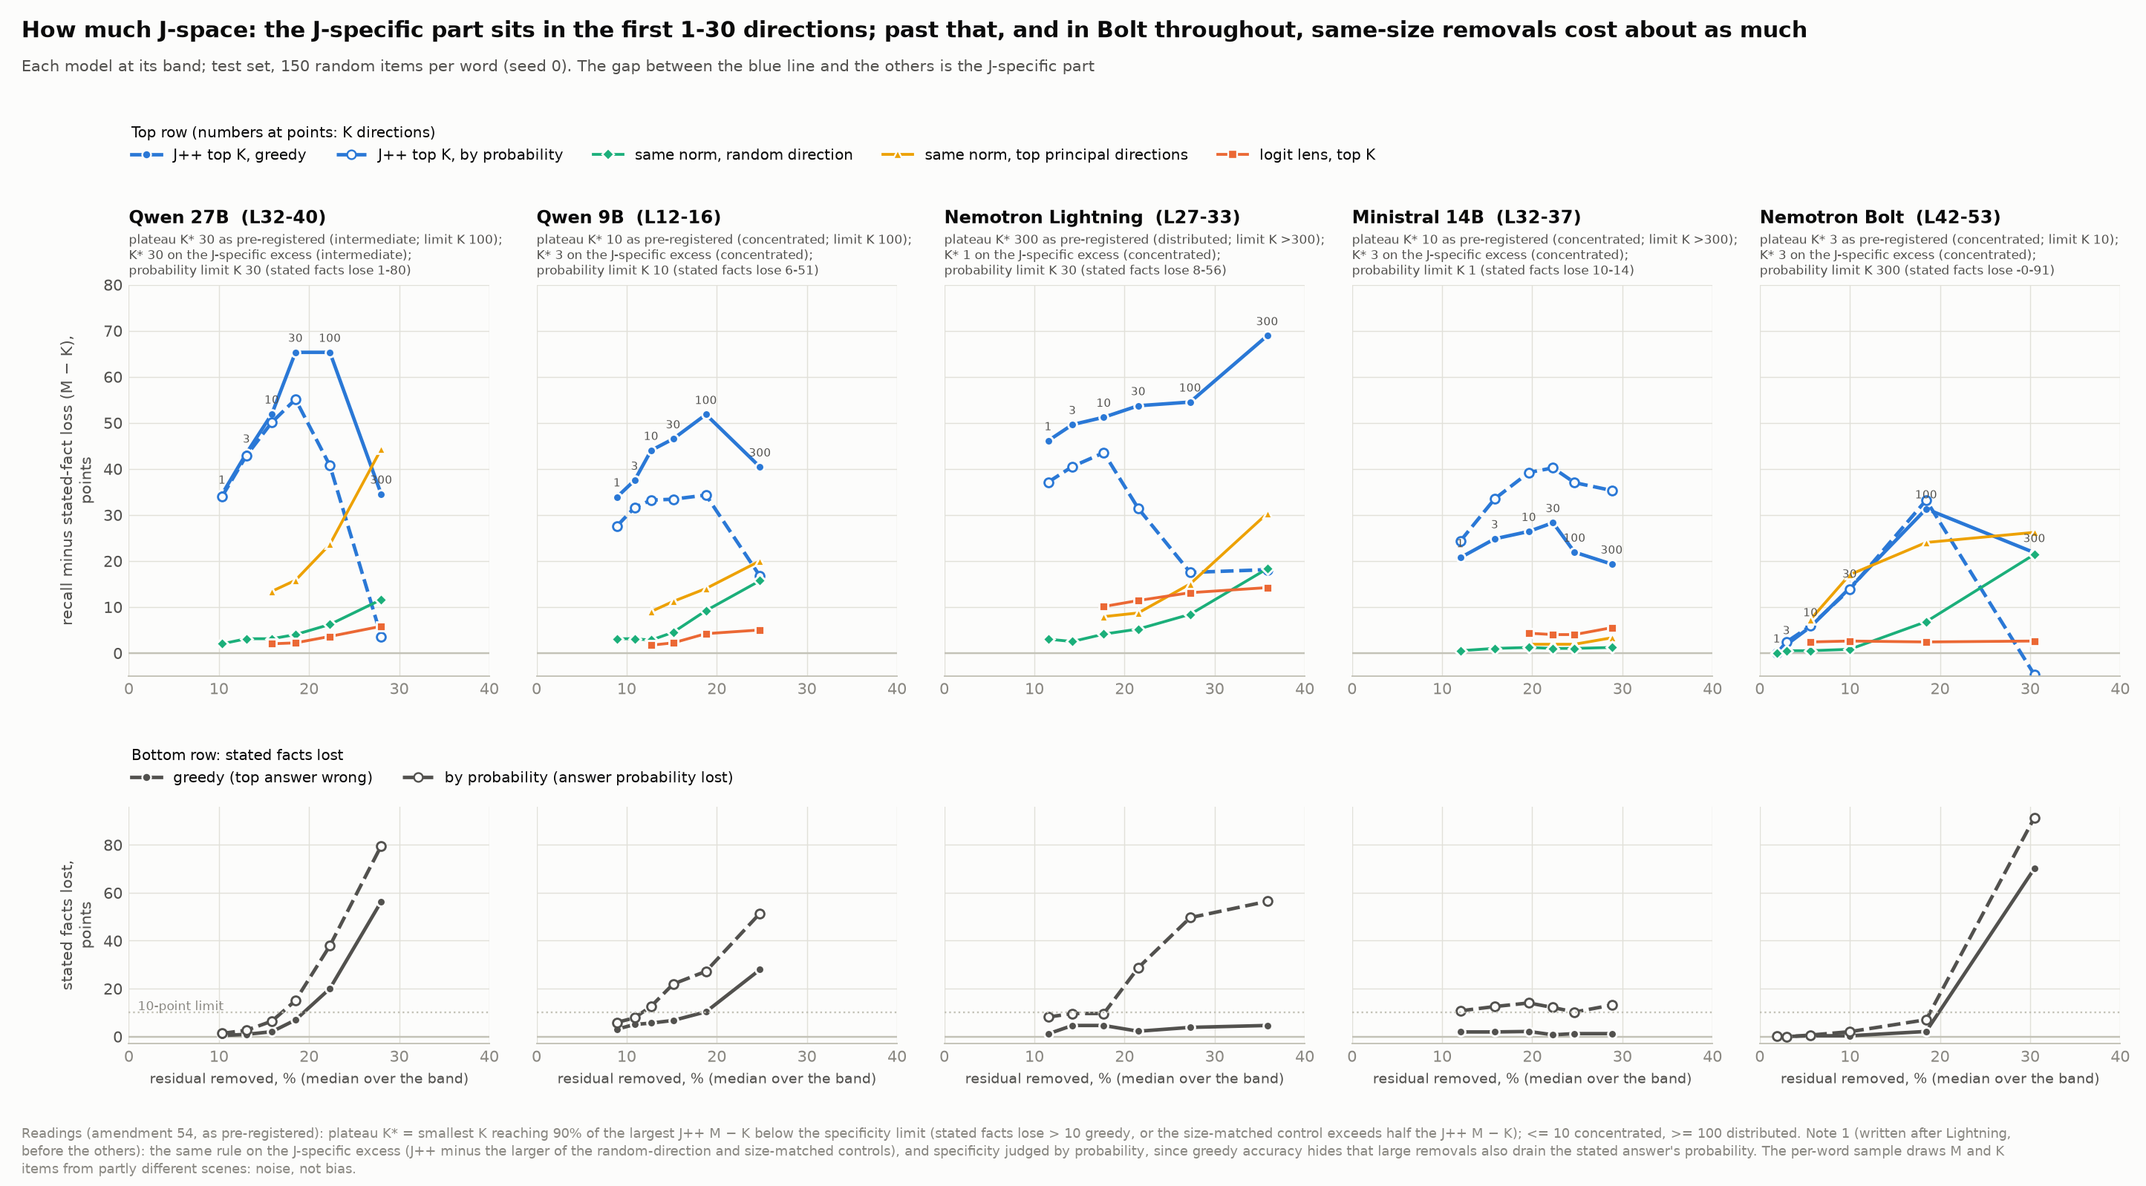
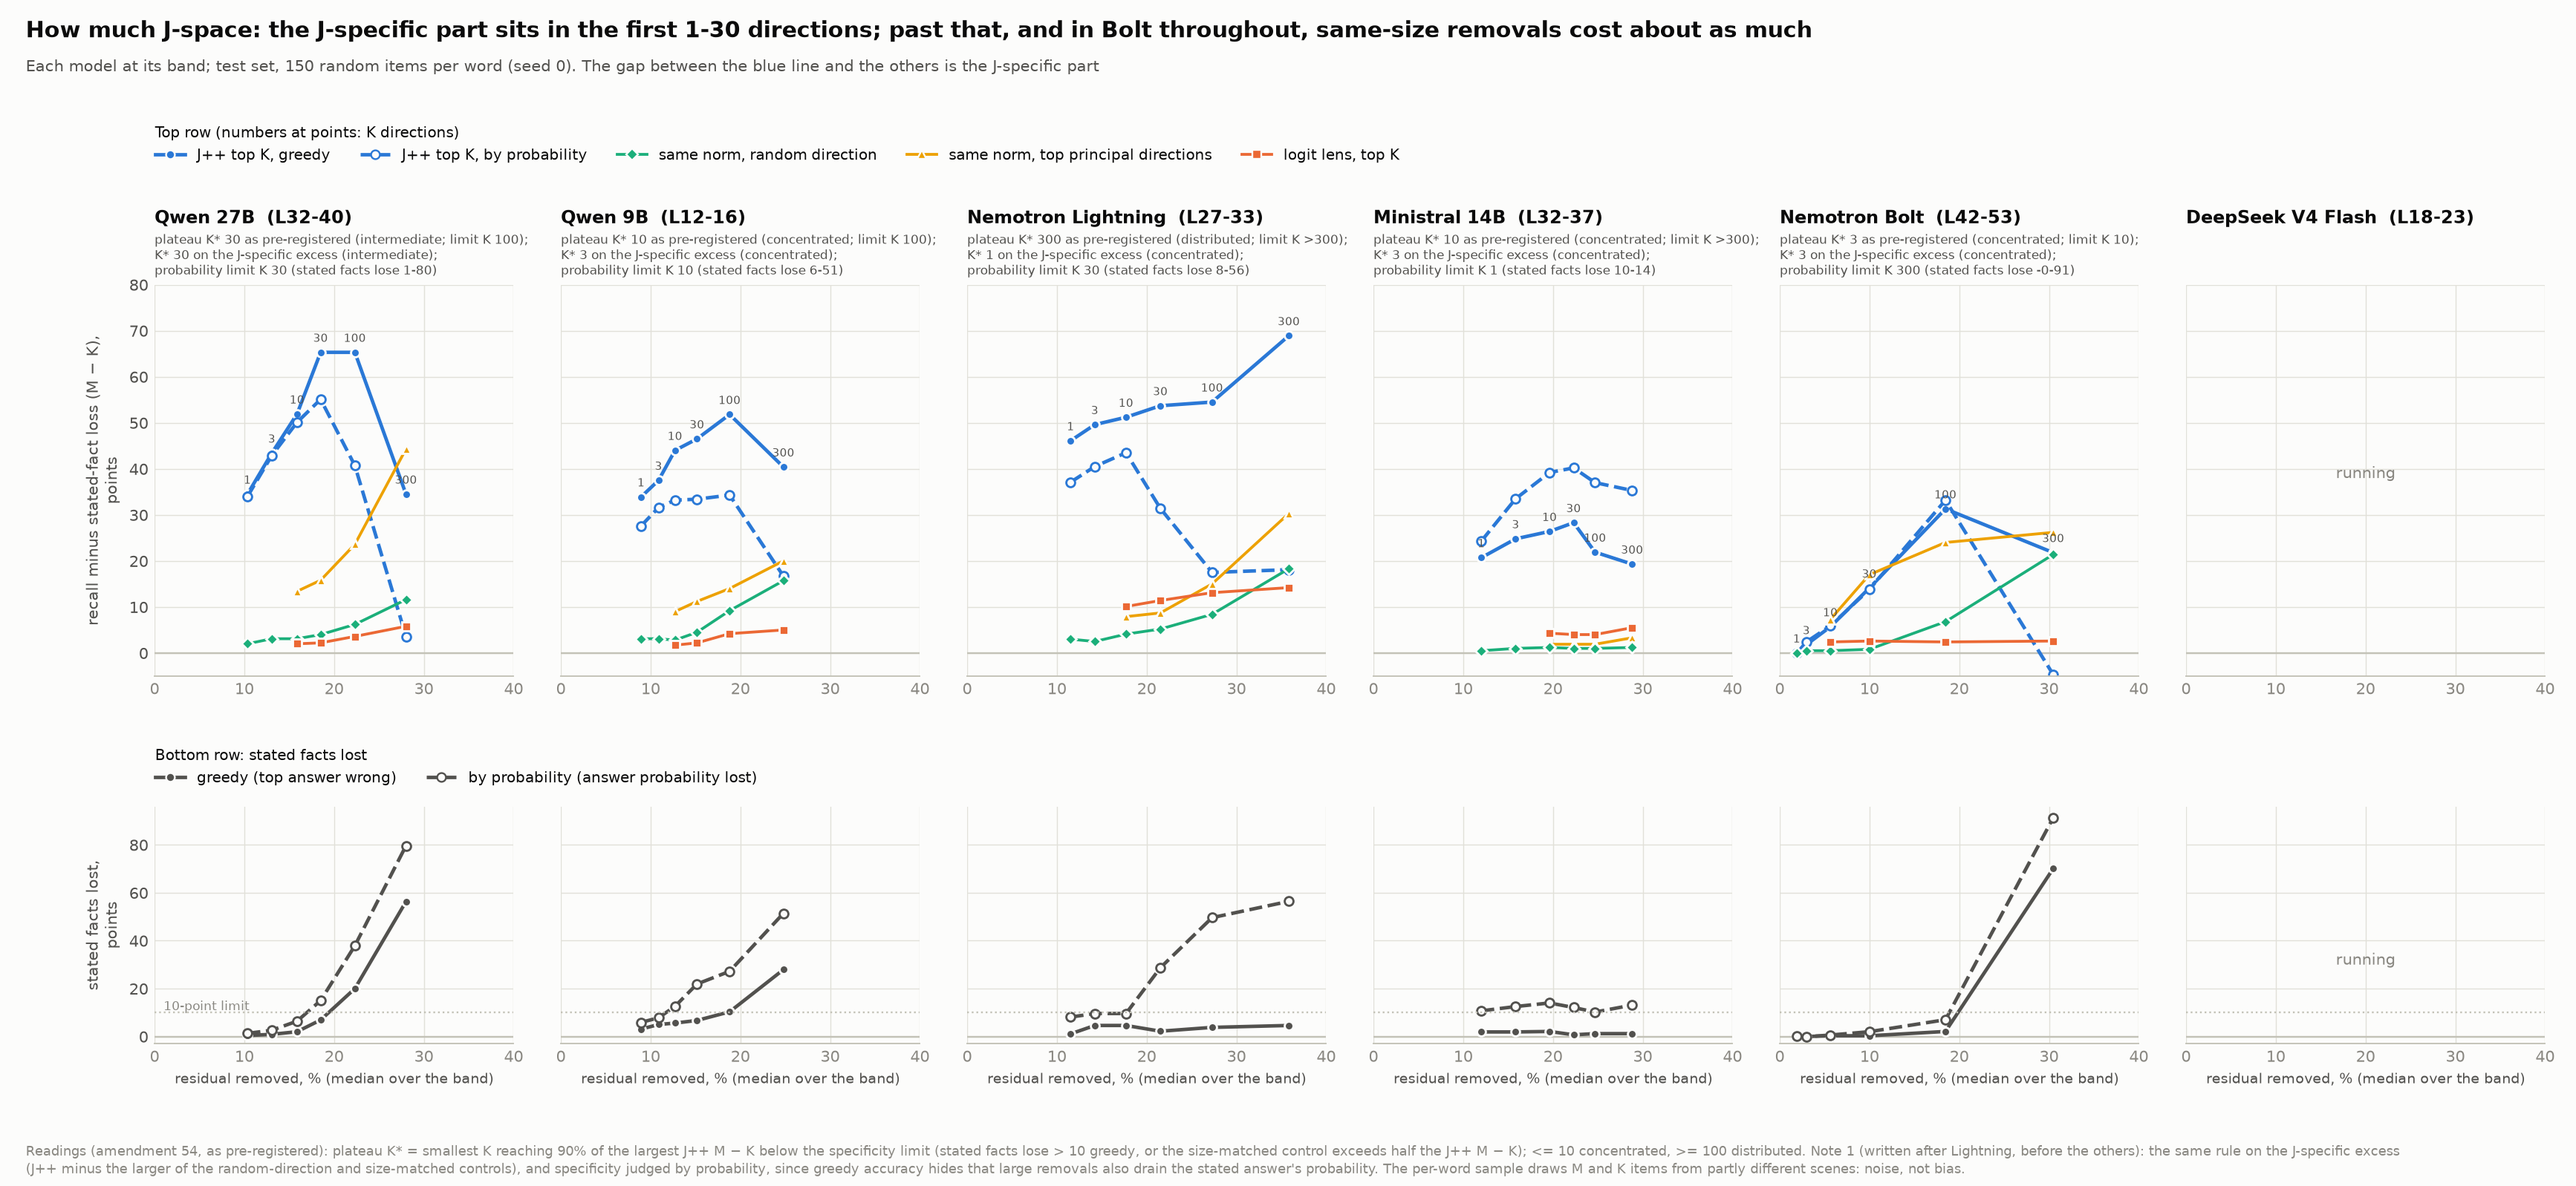
docs/breadth: Bolt pointer at K 100 (context-free, mostly the name); amendment 57 queued; dose figure has a DeepSeek panel (running)

diff --git a/docs/breadth/README.md b/docs/breadth/README.md
@@ -31,7 +31,7 @@ entity, does that depend on whether the final fact is recalled or stated, and in
   Whether the model depends on those directions is a separate, model-specific question.
 
 **Status.** This is Zach's half (breadth): nine models on our dataset jsuite v2, plus the Qwens on every earlier dataset,
-as of 27 Oct 2026. All numbers are unverified until hand-checked (Section 9). Built at 77f8025 from the run files.
+as of 27 Oct 2026. All numbers are unverified until hand-checked (Section 9). Built at 14eeb14 from the run files.
 
 ## Setup
 
@@ -59,7 +59,7 @@ as of 27 Oct 2026. All numbers are unverified until hand-checked (Section 9). Bu
 - **The swap.** Replace the J-part (the span of the top-10 J++ directions) of the bridge's last token with another
   entity's (D).
   - **Transfer**: the share answering D's fact minus the share answering a third entity's.
-- **Fixed in advance** = pre-registered in docs/prereg_replication_1022.md (amendments 1-56) before the run.
+- **Fixed in advance** = pre-registered in docs/prereg_replication_1022.md (amendments 1-57) before the run.
   **After the data** = chosen after seeing results. Brackets: 95% bootstrap over bridges.
 
 ## 1. Recall needs the J++ directions; reading the stated fact does not
@@ -207,7 +207,7 @@ Where in the prompt must the removal act?
 
 ## 4. What the directions carry at the mention: which entity it is
 
-*Fixed in advance (amendments 32, 34, 38A, 47, 48, 51).*
+*Fixed in advance (amendments 32, 34, 38A, 47, 48, 51, 55 note 1).*
 
 If the mention's J-part is swapped for another entity's, does the answer follow, and what is being moved?
 
@@ -228,9 +228,12 @@ If the mention's J-part is swapped for another entity's, does the answer follow,
   - From one neutral sentence about D ("A reader asked a question about D in the letters page"), the J-part moves the
     answer 1.09, 1.10 and 1.01 times as much as from D's own passage.
     It holds on 8 of 8 relations on the 27B.
+  - Bolt, with 100 directions (amendment 55 note 1): 1.01, on 6 of
+    6 relations.
   - From a passage on another relation it moves 0.99 / 0.99 / 0.98 as much.
-- **It is more than the name.** Without the entity's own-word directions, the swap keeps 0.84 /
-  0.83 / 0.62. Lightning's pointer is the most name-like.
+- **In the Qwens it is more than the name; in the Nemotrons, less so.** Without the entity's own-word directions, the
+  swap keeps 0.84 / 0.83 / 0.62. Bolt's keeps 0.43, below the
+  2/3 bar: its pointer is mostly the name's own directions.
 - **Decodable is not carried.** A supervised probe reads the fact at the mention about as well as J++. Swapping the
   probe's subspace moves +8 / +6 / +2, against J++'s
   +75 / +80 / +62.
@@ -293,8 +296,8 @@ How many directions does the dependence need, and when does the removal stop bei
     (18%) and give +51.
   - The pre-registered limit stops Bolt's readings at K 10, where the size-matched control already
     exceeds half the J++ effect; below it the effect is about 0 (+2 at 3).
-  - Its J-part swap still carries the entity at 100 directions (Section 4): Bolt's mention holds the entity in J-space,
-    but its recall does not depend on those directions more than on any same-size removal.
+  - Its J-part swap still carries the entity at 100 directions, as a context-free pointer (Section 4). Bolt's mention
+    holds the entity in J-space, but its recall does not depend on those directions more than on any same-size removal.
 
 ![The J-specific part sits in the first 1-30 directions; in Bolt a same-size removal costs about as much](figures/fig09_dose.png)
 *Fig. 9.*
@@ -379,7 +382,7 @@ proposal's own question (H0: J-space carries recalled words, not computed variab
 | Nemotron 3.5 Lightning (L27-33) | +1.67 nats | +53 [48, 59] | +4 / +9 | 0.15 | +44 | +49, +50 | 9 of 14075 differ | 0.22 | +45 / +14 | 1.01 | +62 / +2 | 300 (1) |
 | DeepSeek-V4-Flash (L18-23) | +1.68 nats | +18 [14, 22] | +5 / +2 | 0.49 | +21 | · | · | · | +10 / +19 (mid depth) | · | · | · |
 | Ministral-3-14B (L32-37) | +0.62 nats | +23 [19, 28] | +1 / +4 | 0.06 | +37 | · | · | 0.06 | +3 / +10 (mid depth) | · | · | 10 (3) |
-| Nemotron 3.5 Bolt (L42-53) | +0.20 nats | +6 [3, 9] | +0 / +2 | 1.28 | +6 | · | · | · | +3 / +20; K 100: +41 | · | · | 3 (3) |
+| Nemotron 3.5 Bolt (L42-53) | +0.20 nats | +6 [3, 9] | +0 / +2 | 1.28 | +6 | · | · | · | +3 / +20; K 100: +41 | 1.01 | · | 3 (3) |
 | OLMo-3-32B base (L12-20) | +0.04 nats | +5 [3, 8] | +2 / +2 | · | +4 | · | · | · | +41 / +53 | · | · | · |
 | Muse Glimmer 30B (L36-42) | +0.94 nats | +60 [55, 65] | +3 / +35 | · | +49 | · | · | · | · | · | · | · |
 | Qwen3.5-122B (FP8) (L39-45) | +1.26 nats | +48 [44, 54] | +2 / +12 | · | +2 | · | · | · | · | · | · | · |
@@ -447,12 +450,13 @@ Three more models stopped on the earlier datasets, below the 30-point bar:
   20 random items per model.
 - **Clean-checkout reruns**: row-identical for the 27B and 9B. Lightning reproduces its headline, not row for row; a
   determinism check traces that to its inputs, not its kernels (Section 2).
-- **Pre-registration**: docs/prereg_replication_1022.md, amendments 1-56. EXPERIMENTS.md has one line per run, with
+- **Pre-registration**: docs/prereg_replication_1022.md, amendments 1-57. EXPERIMENTS.md has one line per run, with
   its W&B link.
 
 ## 10. Next
 
-- Running: Bolt's pointer tests at 100 directions; then DeepSeek's dose grid and position split.
+- Running: DeepSeek's dose grid and position split; then amendment 57 (H0 on a larger numbers set, a second three-hop
+  seed, late-band positions for the 9B and Lightning).
 - OLMo at matched removal size (needs DeepSeek's cache dropped; not approved).
 - H0 head-on: a bridge computed from the passage, on v2.
 - Late-band positions for the 9B and Lightning.

diff --git a/docs/breadth/README.template.md b/docs/breadth/README.template.md
@@ -58,7 +58,7 @@ as of 27 Oct 2026. All numbers are unverified until hand-checked (Section 9). Bu
 - **The swap.** Replace the J-part (the span of the top-10 J++ directions) of the bridge's last token with another
   entity's (D).
   - **Transfer**: the share answering D's fact minus the share answering a third entity's.
-- **Fixed in advance** = pre-registered in docs/prereg_replication_1022.md (amendments 1-56) before the run.
+- **Fixed in advance** = pre-registered in docs/prereg_replication_1022.md (amendments 1-57) before the run.
   **After the data** = chosen after seeing results. Brackets: 95% bootstrap over bridges.
 
 ## 1. Recall needs the J++ directions; reading the stated fact does not
@@ -206,7 +206,7 @@ Where in the prompt must the removal act?
 
 ## 4. What the directions carry at the mention: which entity it is
 
-*Fixed in advance (amendments 32, 34, 38A, 47, 48, 51).*
+*Fixed in advance (amendments 32, 34, 38A, 47, 48, 51, 55 note 1).*
 
 If the mention's J-part is swapped for another entity's, does the answer follow, and what is being moved?
 
@@ -227,9 +227,12 @@ If the mention's J-part is swapped for another entity's, does the answer follow,
   - From one neutral sentence about D ("A reader asked a question about D in the letters page"), the J-part moves the
     answer {{v|ptr.q27.neutral}}, {{v|ptr.q9.neutral}} and {{v|ptr.nl.neutral}} times as much as from D's own passage.
     It holds on {{v|ptr.q27.rel_held}} of {{v|ptr.q27.rel_read}} relations on the 27B.
+  - Bolt, with 100 directions (amendment 55 note 1): {{v|ptr.nb.neutral}}, on {{v|ptr.nb.rel_held}} of
+    {{v|ptr.nb.rel_read}} relations.
   - From a passage on another relation it moves {{v|xrel.q27}} / {{v|xrel.q9}} / {{v|xrel.nl}} as much.
-- **It is more than the name.** Without the entity's own-word directions, the swap keeps {{v|ptr.q27.noown}} /
-  {{v|ptr.q9.noown}} / {{v|ptr.nl.noown}}. Lightning's pointer is the most name-like.
+- **In the Qwens it is more than the name; in the Nemotrons, less so.** Without the entity's own-word directions, the
+  swap keeps {{v|ptr.q27.noown}} / {{v|ptr.q9.noown}} / {{v|ptr.nl.noown}}. Bolt's keeps {{v|ptr.nb.noown}}, below the
+  2/3 bar: its pointer is mostly the name's own directions.
 - **Decodable is not carried.** A supervised probe reads the fact at the mention about as well as J++. Swapping the
   probe's subspace moves {{v|probe.q27.probe}} / {{v|probe.q9.probe}} / {{v|probe.nl.probe}}, against J++'s
   {{v|probe.q27.swap}} / {{v|probe.q9.swap}} / {{v|probe.nl.swap}}.
@@ -292,8 +295,8 @@ How many directions does the dependence need, and when does the removal stop bei
     ({{v|dose.nl.k10.share}}) and give {{v|dose.nl.k10}}.
   - The pre-registered limit stops Bolt's readings at K {{v|dose.nb.limit}}, where the size-matched control already
     exceeds half the J++ effect; below it the effect is about 0 ({{v|dose.nb.k3}} at 3).
-  - Its J-part swap still carries the entity at 100 directions (Section 4): Bolt's mention holds the entity in J-space,
-    but its recall does not depend on those directions more than on any same-size removal.
+  - Its J-part swap still carries the entity at 100 directions, as a context-free pointer (Section 4). Bolt's mention
+    holds the entity in J-space, but its recall does not depend on those directions more than on any same-size removal.
 
 ![The J-specific part sits in the first 1-30 directions; in Bolt a same-size removal costs about as much](figures/fig09_dose.png)
 *Fig. 9.*
@@ -436,12 +439,13 @@ Three more models stopped on the earlier datasets, below the 30-point bar:
   20 random items per model.
 - **Clean-checkout reruns**: row-identical for the 27B and 9B. Lightning reproduces its headline, not row for row; a
   determinism check traces that to its inputs, not its kernels (Section 2).
-- **Pre-registration**: docs/prereg_replication_1022.md, amendments 1-56. EXPERIMENTS.md has one line per run, with
+- **Pre-registration**: docs/prereg_replication_1022.md, amendments 1-57. EXPERIMENTS.md has one line per run, with
   its W&B link.
 
 ## 10. Next
 
-- Running: Bolt's pointer tests at 100 directions; then DeepSeek's dose grid and position split.
+- Running: DeepSeek's dose grid and position split; then amendment 57 (H0 on a larger numbers set, a second three-hop
+  seed, late-band positions for the 9B and Lightning).
 - OLMo at matched removal size (needs DeepSeek's cache dropped; not approved).
 - H0 head-on: a bridge computed from the passage, on v2.
 - Late-band positions for the 9B and Lightning.

diff --git a/docs/digest.md b/docs/digest.md
@@ -1,4 +1,4 @@
-# Results digest (generated 2026-10-26 22:37 UTC by scripts/results_digest.py)
+# Results digest (generated 2026-10-27 08:11 UTC by scripts/results_digest.py)
 
 Every number is read from results/ (jsuite2_score, soft_score, jswap and probe_ceiling summaries). M - K: points lost on
 memory finals minus stated-fact finals under the top-10 J++ removal at the band, start all, 95% bootstrap over bridges.
@@ -43,6 +43,7 @@ position where the lens reads X's answer (unedited) / D's answer (neutral-donor 
 | Qwen3.6-27B | 898 | +64 [58, 70] | +70 (1.09) | -1 / +0 | +68 | 8 of 8 | +44 (0.69) | +54 (0.84) | X from L50; D (neutral donor) from L56 |
 | Qwen3.5-9B | 624 | +64 [58, 70] | +70 (1.10) | +1 / -0 | +55 | 8 of 8 | +46 (0.73) | +52 (0.83) | X from L23; D (neutral donor) from L24 |
 | Nemotron-3.5-Lightning | 654 | +46 [40, 52] | +46 (1.01) | -0 / +1 | +44 | 7 of 7 | +32 (0.69) | +28 (0.62) | X from L32; D (neutral donor) peaks 45% |
+| Nemotron-3.5-Bolt | 698 | +41 [35, 48] | +42 (1.01) | -0 / +2 | +28 | 6 of 6 | +34 (0.83) | +18 (0.43) | X from L69; D (neutral donor) peaks 44% |
 
 ## Removal size at the knock-out band (median share of the residual norm removed, top 10)
 
